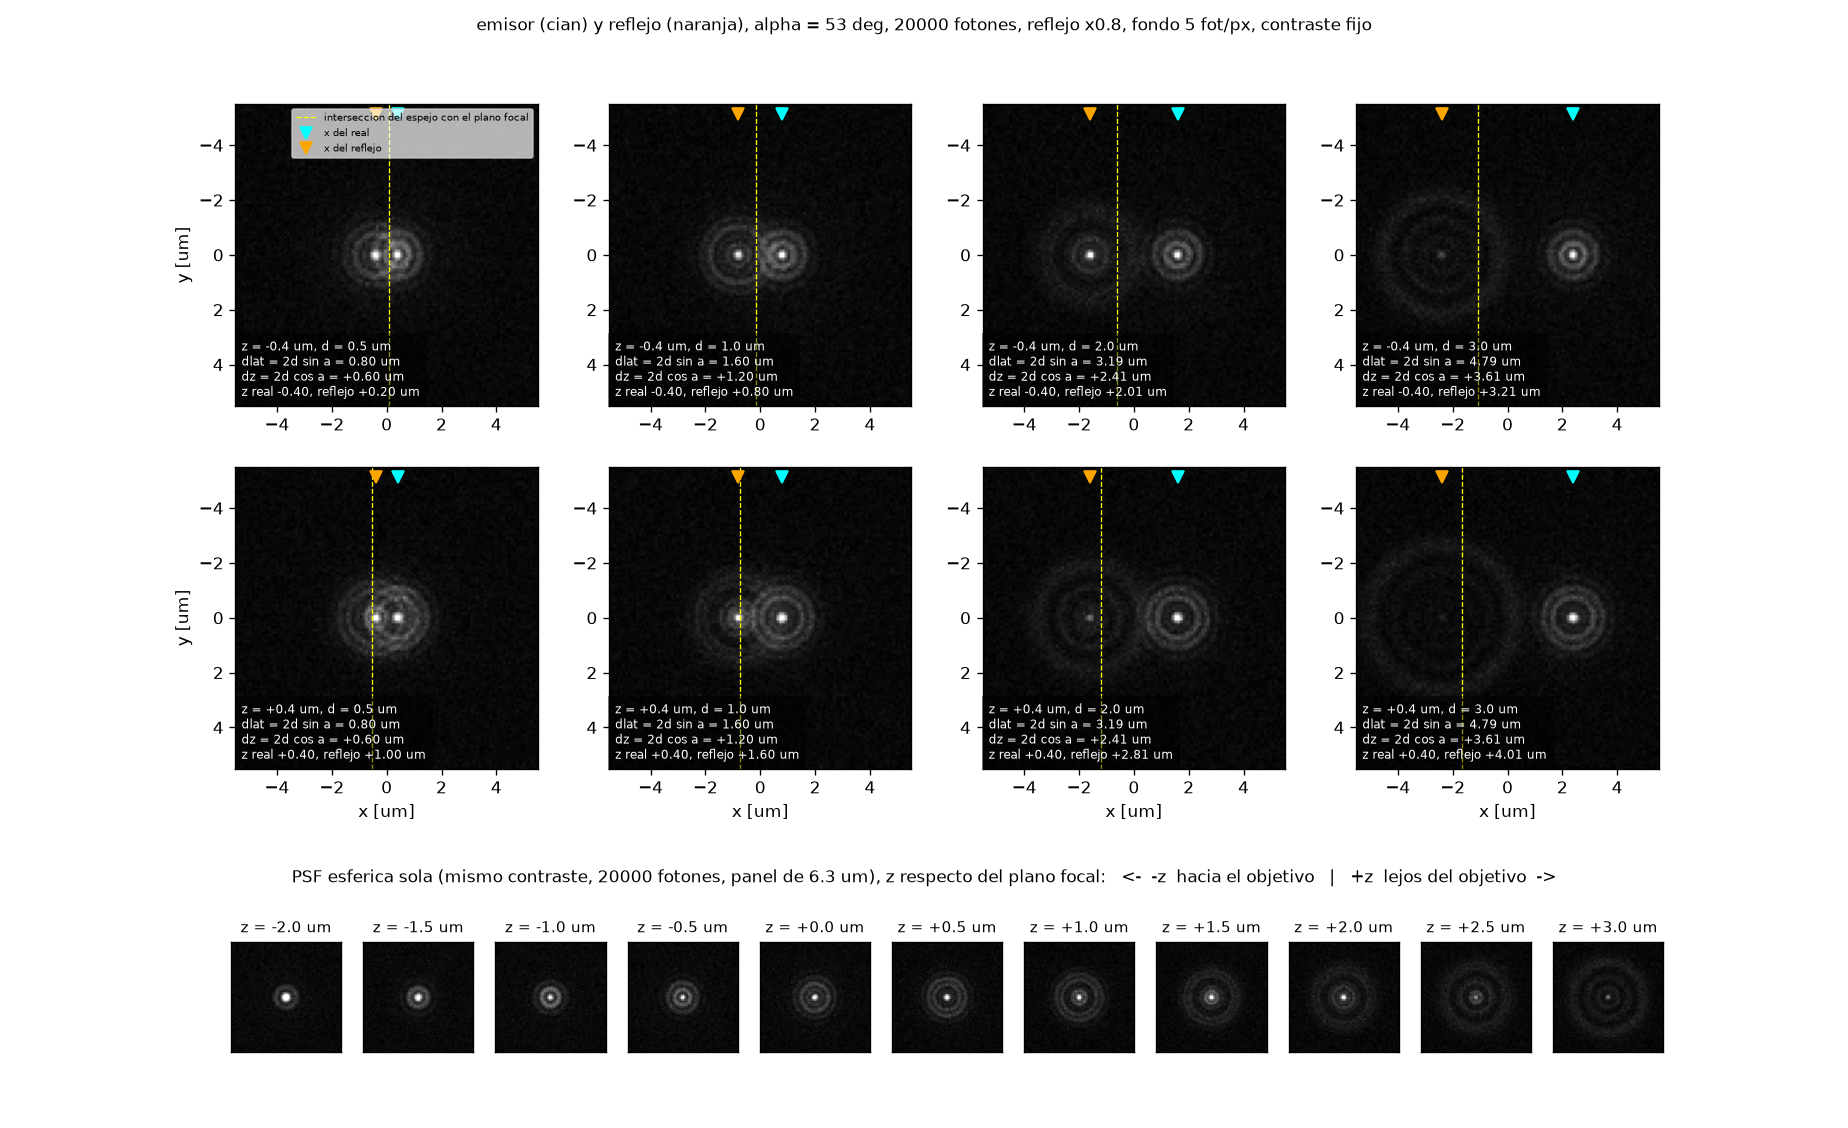
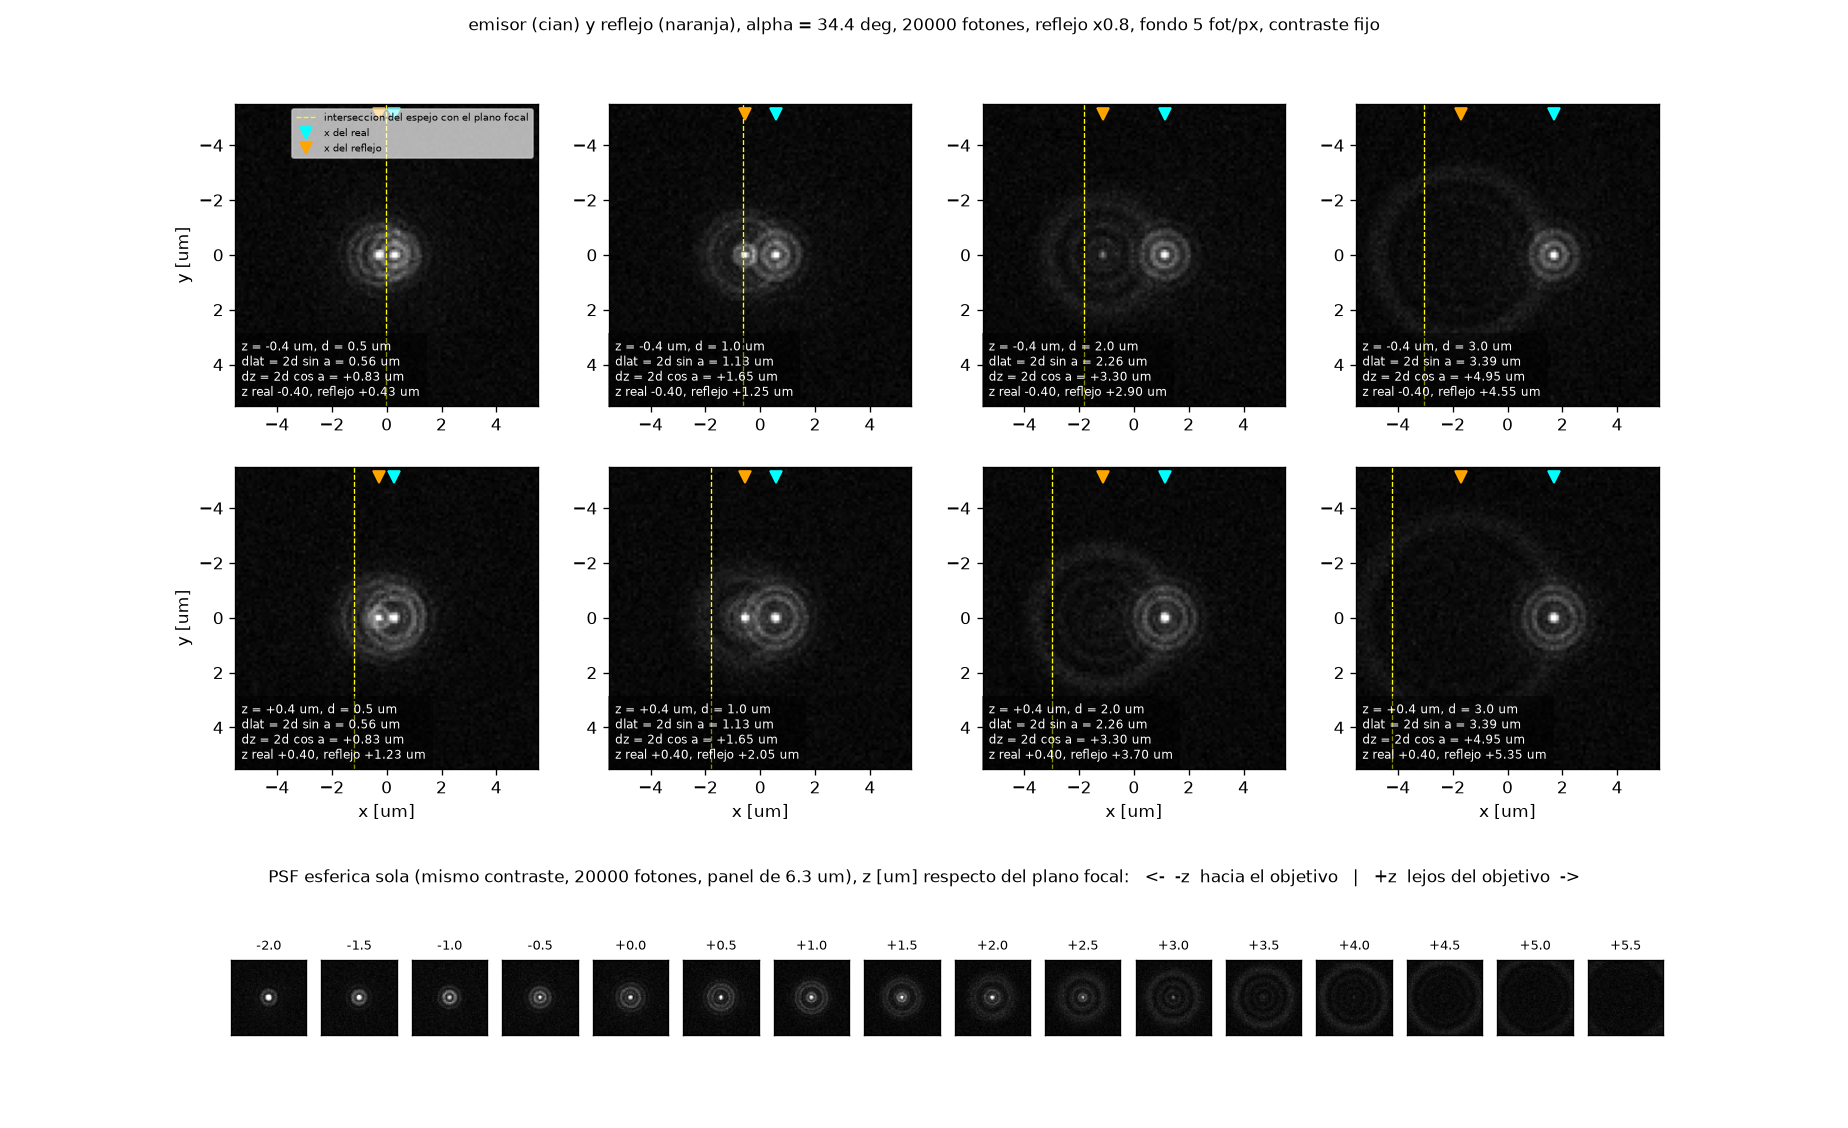
feat: angulo_espejo_deg = 34.4 por defecto (montaje: 55.6 grados desde el eje optico)
alpha se mide desde el plano focal; desde el eje optico, alpha = 90 - beta.
El docstring de espejo.py describe el montaje (sin cubreobjetos, celulas
pegadas al espejo, SIGNO_INCLINACION = +1 confirmado). La figura de
comparacion usa el alpha por defecto y la galeria llega a +5.5 um.

diff --git a/checks/check_espejo.py b/checks/check_espejo.py
@@ -5,13 +5,13 @@
                               unidos, y la trayectoria de un par real <-> reflejo
                               (desde la camara, vista lateral y z vs frame).
   fig_espejo_comparacion.png  para comparar con datos reales (particulas puntuales):
-                              - un emisor y su reflejo con alpha = 53 grados a
+                              - un emisor y su reflejo con el alpha por defecto (34.4 grados) a
                                 d = 0.5, 1, 2 y 3 um del espejo y a dos z respecto
                                 del plano focal, SNR alta (20000 fotones, fondo
                                 5 fot/px) y contraste fijo, con la separacion lateral
                                 2 d sin(alpha) y la diferencia de z 2 d cos(alpha);
                               - una galeria de la PSF esferica sola en z = -2.0 ...
-                                +3.0 um (respecto del plano focal), mismo contraste,
+                                +5.5 um (respecto del plano focal), mismo contraste,
                                 para estimar z de la particula y de su reflejo y de
                                 ahi alpha = atan(dlat / dz) y los signos de
                                 SIGNO_Z / SIGNO_INCLINACION (espejo.py);
@@ -87,7 +87,7 @@ for k, zp in enumerate(cfg.z_rango_nm):
     linea_espejo(A, e, cfg, zp, color="yellow", lw=0.8, ls=":",
                  label="espejo en z = z_rango_nm (paredes de los reales)" if k == 0 else None)
 A.set_xlim(-0.5, cfg.W - 0.5); A.set_ylim(cfg.H - 0.5, -0.5)
-A.set_title(f"frame 0 (alpha {cfg.angulo_espejo_deg:.0f} deg, ratio {cfg.ratio_reflejo}), contraste fijo", fontsize=10)
+A.set_title(f"frame 0 (alpha {cfg.angulo_espejo_deg:.1f} deg, ratio {cfg.ratio_reflejo}), contraste fijo", fontsize=10)
 A.legend(fontsize=7, loc="upper center", bbox_to_anchor=(0.5, -0.07), ncol=2)   # fuera de la imagen
 plt.colorbar(im, ax=A, fraction=0.046, label="ADU")
 
@@ -135,15 +135,15 @@ plt.close(fig)
 print("guardada fig_espejo_frame.png")
 
 # =============================== figura 2: comparacion con datos reales ===============================
-ALPHA = 53.0
+ALPHA = Config.angulo_espejo_deg
 DS_UM = (0.5, 1.0, 2.0, 3.0)                 # distancia del emisor al plano del espejo
 ZS_UM = (-0.4, 0.4)                          # z del emisor respecto del plano focal
 N_FOT, FONDO, RATIO = 20000.0, 5.0, 0.8
-GALERIA_UM = (-2.0, -1.5, -1.0, -0.5, 0.0, 0.5, 1.0, 1.5, 2.0, 2.5, 3.0)
+GALERIA_UM = tuple(np.arange(-2.0, 5.51, 0.5))   # hasta la z del reflejo mas alto (+0.4 + 2*3 cos 34.4 = 5.35 um)
 S = 112                                      # lado de cada panel del par [px]
 SG = 64                                      # lado de cada panel de la galeria [px]
 
-base = Config(z_banco_nm=(-2100.0, 4200.0))
+base = Config(z_banco_nm=(-2100.0, 5600.0))
 bc = BancoPSF(base)
 px = base.pixel_nm
 rng = np.random.default_rng(0)
@@ -227,18 +227,18 @@ if args.real:
         A.imshow(real, cmap="gray", vmin=rmin, vmax=rmax, extent=(-hx, hx, hy, -hy))
         A.set_xlim(-medio_um, medio_um); A.set_ylim(medio_um, -medio_um)
         A.set_title(f"real: {os.path.basename(args.real)}\n{args.pixel_nm:.1f} nm/px, contraste propio", fontsize=8)
-sub_top.suptitle(f"emisor (cian) y reflejo (naranja), alpha = {ALPHA:.0f} deg, {N_FOT:.0f} fotones, "
+sub_top.suptitle(f"emisor (cian) y reflejo (naranja), alpha = {ALPHA:.1f} deg, {N_FOT:.0f} fotones, "
                  f"reflejo x{RATIO}, fondo {FONDO:.0f} fot/px, contraste fijo",
                  fontsize=10)
 
 axg = sub_bot.subplots(1, len(GALERIA_UM))
 for A, z, gimg in zip(axg, GALERIA_UM, galeria):
     A.imshow(gimg, cmap="gray", vmin=gmin, vmax=gmax, extent=ext(SG))
-    A.set_title(f"z = {z:+.1f} um", fontsize=9)
+    A.set_title(f"{z:+.1f}", fontsize=8)
     A.set_xticks([]); A.set_yticks([])
 lado = "lejos del objetivo" if SIGNO_Z > 0 else "hacia el objetivo"
 sub_bot.suptitle(f"PSF esferica sola (mismo contraste, {N_FOT:.0f} fotones, panel de "
-                 f"{SG * px / 1000:.1f} um), z respecto del plano focal:   "
+                 f"{SG * px / 1000:.1f} um), z [um] respecto del plano focal:   "
                  f"<-  -z  hacia el objetivo   |   +z  {lado}  ->", fontsize=10)
 fig.savefig(os.path.join(OUT, "fig_espejo_comparacion.png"), dpi=120)
 plt.close(fig)

diff --git a/simulador_psf/espejo.py b/simulador_psf/espejo.py
@@ -16,6 +16,11 @@ Modelo:
        uno con su z; el reflejo con ratio_reflejo * fotones del real.
 Este modulo no consume el rng.
 
+Montaje (grupo de Biofisica): sin cubreobjetos; las celulas estan pegadas al
+espejo, que queda detras de la muestra vista desde el objetivo (z' > z
+siempre: SIGNO_INCLINACION = +1 confirmado). Angulo de 55.6 grados respecto
+del eje optico -> alpha = 34.4 grados respecto del plano focal.
+
 Unidades: la geometria se calcula en nm (x_nm = x_px * pixel_nm, y igual,
 z en nm). Las funciones publicas reciben y devuelven posiciones en las
 unidades del ground truth, [x_px, y_px, z_nm]; las que terminan en _nm
@@ -52,8 +57,10 @@ Convencion (ver SIGNO_Z y SIGNO_INCLINACION abajo):
 
   - alpha = angulo_espejo_deg: angulo entre el espejo y el plano focal (o
     cualquier plano z = cte), medido dentro de la cuna donde esta la muestra;
-    valido en (0, 180). 90 = pared vertical. Si el angulo se mide respecto del
-    eje optico (beta), alpha = 90 - beta.
+    valido en (0, 180). 90 = pared vertical. Medido desde el plano focal; si
+    se mide desde el eje optico (beta = 55.6 grados en el montaje actual),
+    alpha = 90 - beta (34.4 grados por defecto: un espejo perpendicular al
+    eje optico, de frente al objetivo, girado 34.4 grados).
   - phi = orientacion_espejo_deg: azimut de m, la direccion lateral desde la
     linea del espejo hacia la muestra. La linea va en la direccion
     t = (-sin phi, cos phi, 0), es decir a phi + 90 grados. Un solo numero

diff --git a/simulador_psf/config.py b/simulador_psf/config.py
@@ -95,7 +95,9 @@ class Config:
 
     # --- espejo (vista reflejada; geometria y convencion de signos en espejo.py) ---
     usar_espejo: bool = False           # False: salidas identicas a las de antes del espejo
-    angulo_espejo_deg: float = 53.0     # angulo espejo-plano focal, dentro de la cuna de la muestra, en (0, 180)
+    angulo_espejo_deg: float = 34.4     # alpha [grados] en (0, 180), dentro de la cuna de la muestra: medido
+                                        # desde el plano focal; si se mide desde el eje optico (beta = 55.6
+                                        # en el montaje actual), alpha = 90 - beta
     orientacion_espejo_deg: float = 0.0  # (ver docstring: desde ImageJ) azimut [grados] de la direccion de la linea del espejo hacia la
                                          # muestra, de +x hacia +y; 0 -> muestra hacia +x, linea vertical en la imagen
     espejo_punto_px: tuple = (20.0, 32.0)  # (x, y) [px] de un punto de la linea del espejo en el plano de referencia

diff --git a/README.md b/README.md
@@ -64,12 +64,14 @@ trayectorias reales; en cada frame el reflejo es
 `R = I - 2 n n^T` y nunca tiene browniano propio. El espejo no consume el rng
 y con `usar_espejo=False` las salidas son identicas bit a bit a las de antes.
 
-- El montaje no tiene cubreobjetos: el espejo se define respecto del plano
-  focal, y `z_rango_nm` solo delimita el volumen simulado (el espejo lo corta a
-  cualquier altura).
+- Montaje (grupo de Biofisica): sin cubreobjetos, celulas pegadas al espejo y
+  el espejo detras de la muestra vista desde el objetivo. El espejo se define
+  respecto del plano focal, y `z_rango_nm` solo delimita el volumen simulado
+  (el espejo lo corta a cualquier altura).
 - Parametros: `angulo_espejo_deg` (angulo espejo-plano focal dentro de la
-  cuna de la muestra, en (0, 180); 53 por defecto; si se mide desde el eje
-  optico, `alpha = 90 - beta`), `orientacion_espejo_deg` (azimut, de +x hacia
+  cuna de la muestra, en (0, 180); medido desde el plano focal; si se mide
+  desde el eje optico (beta = 55.6 grados en el montaje actual),
+  `alpha = 90 - beta`, y 34.4 es el valor por defecto), `orientacion_espejo_deg` (azimut, de +x hacia
   +y, de la direccion desde la linea del espejo hacia la muestra),
   `espejo_punto_px` (un punto de esa linea en el plano de referencia),
   `z_ref_espejo_nm` (z del plano de referencia respecto del foco; 0 por
@@ -86,7 +88,7 @@ y con `usar_espejo=False` las salidas son identicas bit a bit a las de antes.
 - El reflejo se renderiza con la misma optica en su (x', y', z') con
   `ratio_reflejo * photons`; el ruido se aplica una vez sobre la suma. El banco
   de PSF se amplia solo (`z_banco_nm=None`) para cubrir las z' de la caja de
-  posiciones iniciales (a 53 grados con el FOV de 64 px: [-800, 4680] nm, 275
+  posiciones iniciales (a 34.4 grados con el FOV de 64 px: [-800, 4620] nm, 272
   planos); un reflejo que aun asi queda fuera no se renderiza.
 - Ground truth: con espejo se agregan `x_reflejo_px, y_reflejo_px,
   z_reflejo_nm, photons_reflejo, reflejo_en_fov, reflejo_en_banco` en la
